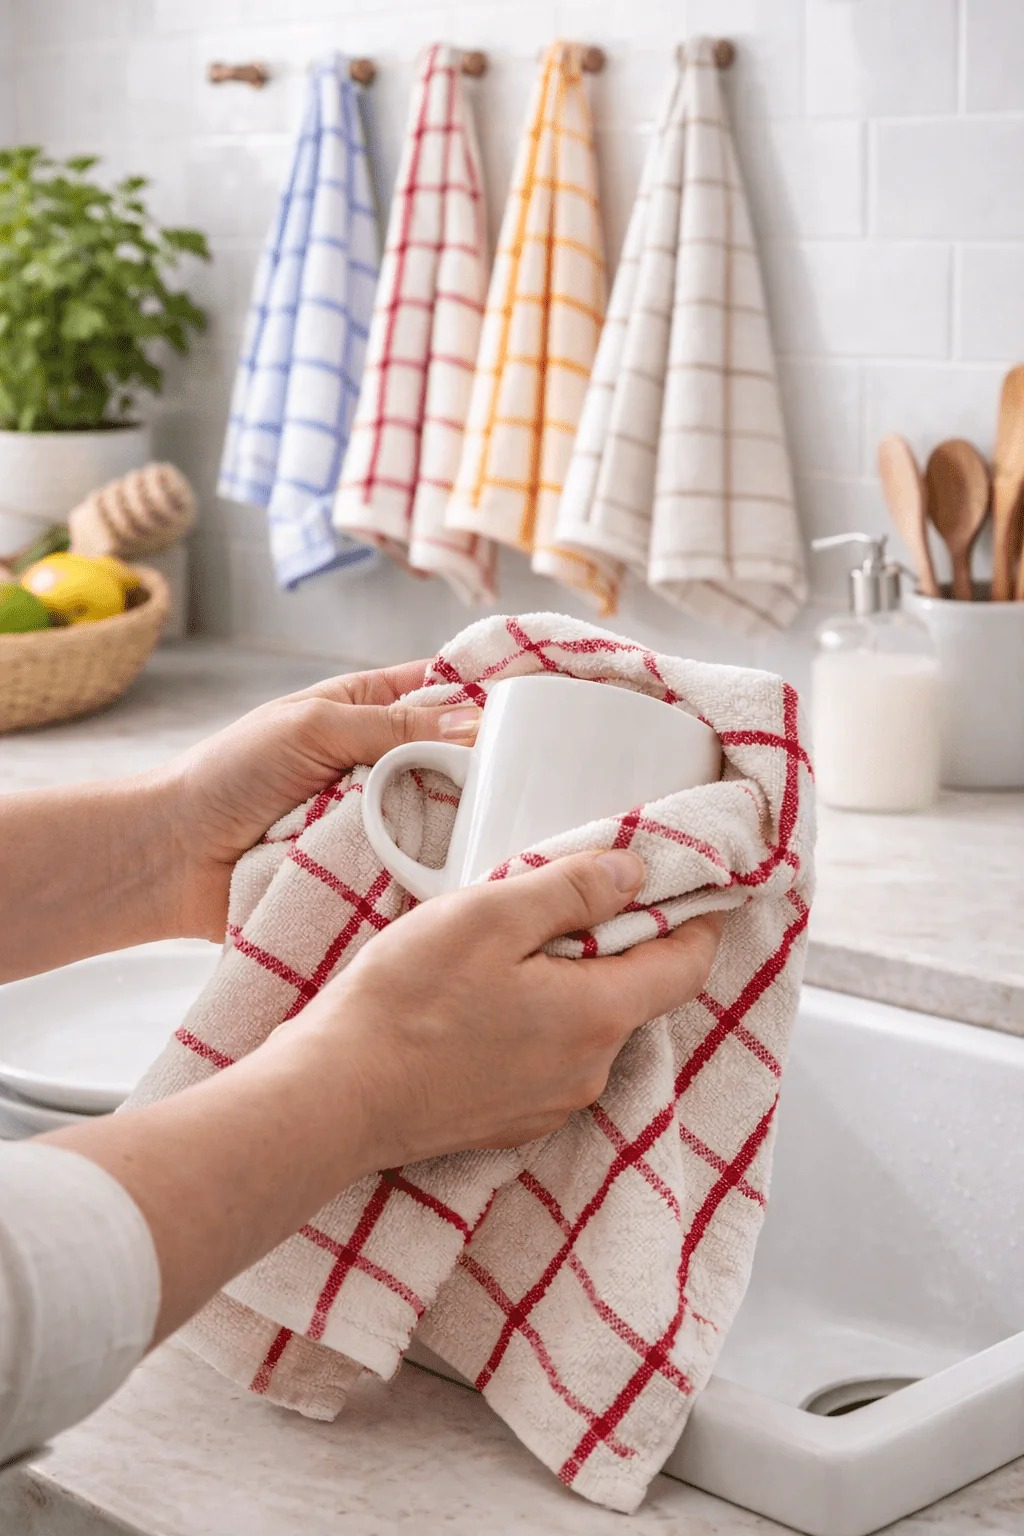
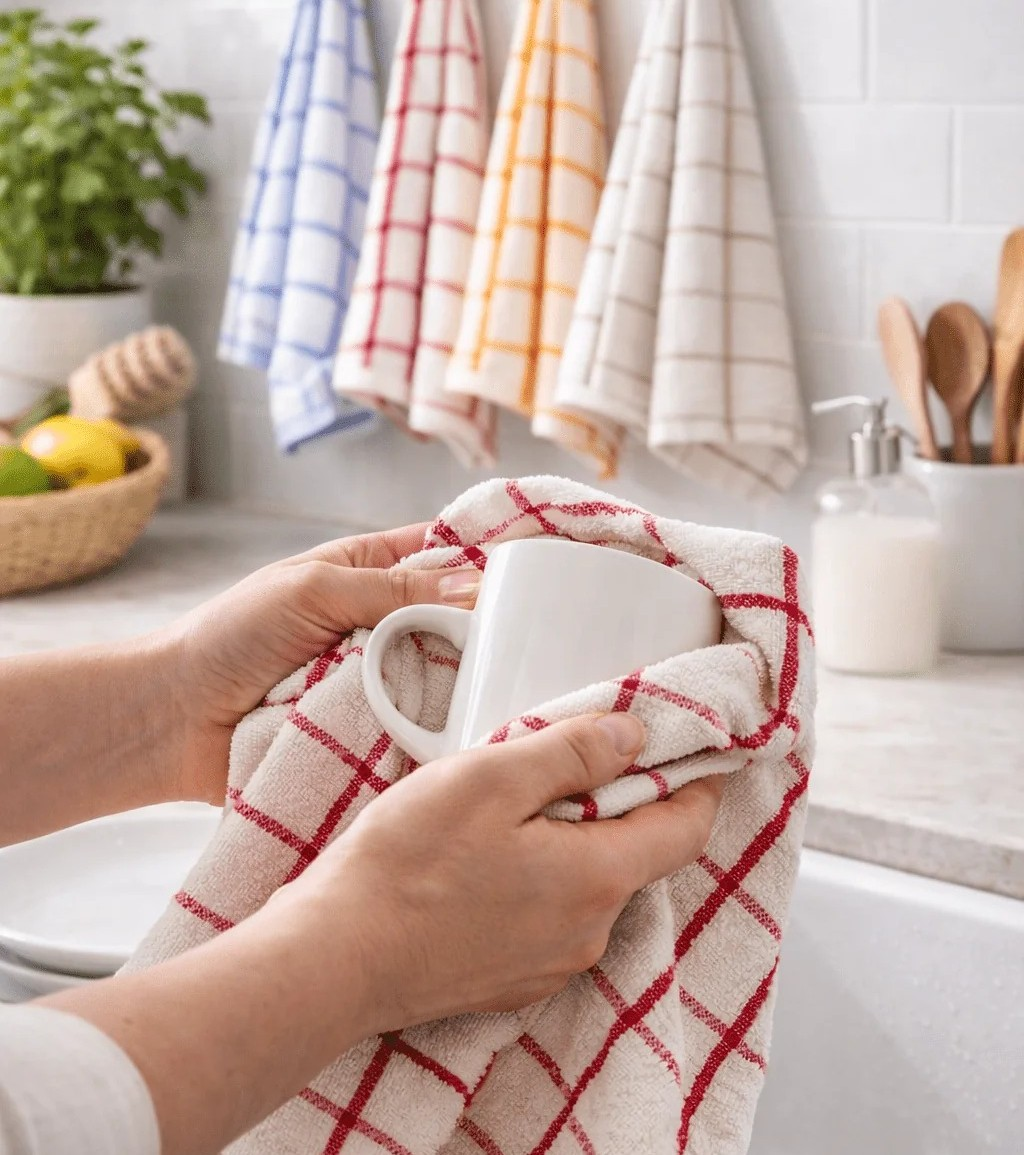
style: enforce uniform height and object-fit for product carousel images globally to fix layout inconsistency

diff --git a/style.css b/style.css
@@ -861,6 +861,14 @@ textarea.form-control {
   }
 }
 
+/* --- Project Carousel Uniform Image Sizing --- */
+.project-carousel .swiper-slide .img img {
+  height: 450px !important;
+  width: 100% !important;
+  object-fit: cover !important;
+  object-position: center !important;
+}
+
 /* --- Extra Mobile Fixes --- */
 @media (max-width: 768px) {
   /* Footer inline columns -> stack properly */
@@ -893,6 +901,12 @@ textarea.form-control {
   .slide-visit-overlay {
     display: none !important;
   }
+  
+  /* Make carousel images slightly shorter on mobile */
+  .project-carousel .swiper-slide .img img {
+    height: 380px !important;
+  }
+
   /* Stats grid */
   .grid-3, .grid-4 {
     grid-template-columns: 1fr !important;
